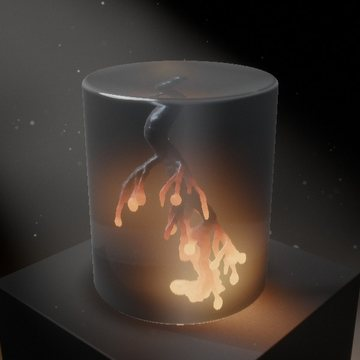
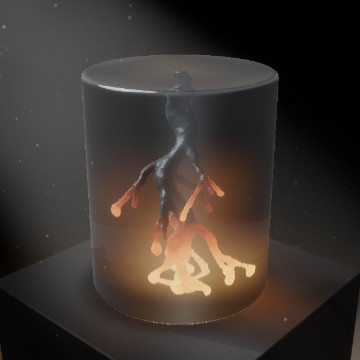
Day 27: reproducible seeds, C replays the cast, pour stays out of the url, free unshown bakes

Changed region(s): [[0.275, 0.3361, 0.8556, 0.9778], [0.2139, 0.1528, 0.7944, 0.3667], [0.3667, 0.8556, 0.3972, 0.8861]]

diff --git a/27/main.js b/27/main.js
@@ -18,6 +18,7 @@ import {
   showSoundHint,
   onPause,
 } from "common";
+import { getSeed, seededRandom } from "modules/random.js";
 import { GUI } from "guspira";
 import { Scene, Mesh, Group, Vector2, Vector3, Spherical, Color, Shape, ExtrudeGeometry, LatheGeometry, CylinderGeometry, BoxGeometry, DataUtils } from "three";
 import { PipelineMaterial } from "modules/pipeline/PipelineMaterial.js";
@@ -103,7 +104,7 @@ function toggleSound() {
 onPause((running) => sound.pause(!running));
 
 addKey("KeyE", "toggle excavate", () => params.encase.set(params.encase() > 0.5 ? 0 : 1));
-addKey("KeyP", "replay the cast", () => beginLift(false));
+addKey("KeyC", "replay the cast", () => beginLift(false));
 addKey("KeyM", "toggle sound", () => toggleSound());
 
 const gui = new GUI(setDay(), document.querySelector("#gui-container"), { expanded: false });
@@ -125,7 +126,7 @@ gui.addSlider("Refraction", params.ior, 1.1, 1.9, 0.01, { randomizable: false })
 gui.addSlider("Heat", params.heat, 0, 1.5, 0.01, { title: "Molten ember intensity at the lower burrow tips (0 = fully cooled metal)." });
 gui.addSlider("Grain", params.grain, 0, 1, 0.01, { title: "Sand-imprinted cast metal surface micro-texture (subtle cast grain always remains)." });
 gui.addSlider("Bubbles", params.bubbles, 0, 1, 0.01, { title: "Trapped gas blowholes and spherical air pockets carved into the cast metal." });
-gui.addSlider("Pour", params.pour, 0, 1, 0.01, { randomizable: false, title: "Molten metal pour fill progress from the top entrance (press P to replay)." });
+gui.addSlider("Pour", params.pour, 0, 1, 0.01, { randomizable: false, title: "Molten metal pour fill progress from the top entrance (press C to replay)." });
 gui.addSlider("Spotlight", params.spotlight, 0, 1, 0.01, { randomizable: false, title: "Volumetric overhead gallery spotlight shaft and drifting dust haze." });
 gui.addSlider("Room light", params.room, 0, 1, 0.01, { randomizable: false, title: "Light on the plinth and backdrop outside the spot (0: only the spot and the embers)." });
 gui.addSlider("Base light", params.baseLight, 0, 2, 0.01, { randomizable: false, title: "The warm strip tucked under the plinth." });
@@ -137,7 +138,7 @@ const autoChange = createAutoChange({ enabled: params.auto, every: params.autoTi
 pipeline.addGUI(gui);
 gui.addSeparator();
 gui.addText(keysHelp());
-showHint("Drag to orbit · P pour · E excavate · R new cast", "Drag to orbit · tap {randomize} for a new cast");
+showHint("Drag to orbit · C pour · E excavate · R new cast", "Drag to orbit · tap {randomize} for a new cast");
 showSoundHint(() => !sound.running);
 gui.show();
 
@@ -233,9 +234,9 @@ function triggerPour() {
   pourAnimActive = true;
   curPour = 0.0;
   curPourHeat = 1.0;
-  lastSliderPour = 0.0;
   pourClock = 0;
-  params.pour.set(0.0);
+  params.pour.set(1);
+  lastSliderPour = 1;
 }
 
 // The cycle: an empty plinth, the pour defines the burrow, the resin rises around it as it cools, then it rests. A change
@@ -254,9 +255,9 @@ function startCycle() {
   pourAnimActive = false;
   curPour = 0;
   curPourHeat = 0;
-  lastSliderPour = 0;
   pourClock = 0;
-  params.pour.set(0);
+  params.pour.set(1);
+  lastSliderPour = 1;
 }
 function beginLift(rebuild = true) {
   if (rebuild) startBake();
@@ -337,6 +338,11 @@ function setPlinthSize() {
 // The next piece bakes in a worker while the current one lifts away; its textures are uploaded as soon as it arrives.
 let bake = null;
 function startBake() {
+  // A baked piece that never went on show.
+  if (bake?.vol) {
+    bake.vol.burrowTex.dispose();
+    bake.vol.glowTex.dispose();
+  }
   currentKey = sculptureKey();
   const job = { vol: null };
   bake = job;
@@ -346,6 +352,7 @@ function startBake() {
     complexity: params.complexity(),
     T: VOL_RES,
     G: 48,
+    random: seededRandom(`${getSeed()}|${currentKey}`),
   }).then((vol) => {
     renderer.initTexture(vol.burrowTex);
     renderer.initTexture(vol.glowTex);
@@ -409,7 +416,8 @@ onRandomize(() => {
 
 applyUrlState();
 load.burrow.set(0.3);
-startBake();
+// A seed in the url has already started this piece's bake.
+if (!bake || currentKey !== sculptureKey()) startBake();
 applyVolume(await load.burrow.track(bake.promise));
 bake = null;
 if (hasUrlPour) {
@@ -578,12 +586,11 @@ render(({ time, dt }) => {
   pourClock += dt;
   if (pourAnimActive) {
     curPour = Math.min(1.0, curPour + dt * POUR_RATE);
-    lastSliderPour = curPour;
-    params.pour.set(curPour);
     curPourHeat = 1.0;
     if (curPour >= 1.0) pourAnimActive = false;
   } else {
-    curPour += (sliderPour - curPour) * ease;
+    // The plinth stays empty until the pour starts.
+    curPour += ((cycle.phase === "empty" ? 0 : sliderPour) - curPour) * ease;
     const targetPourHeat = curPour < 0.985 && curPour > 0.005 ? 1.0 : 0.0;
     const coolRate = targetPourHeat > curPourHeat ? 1 - Math.exp(-dt * 8.0) : dt * 0.34;
     curPourHeat = targetPourHeat > curPourHeat

diff --git a/27/explainer.html b/27/explainer.html
@@ -178,7 +178,7 @@ footer ul { margin: 8px 0 12px; padding-left: 18px; }
       </tbody>
     </table></div>
     <div class="col prose">
-      <p>Every archetype uses <code>Math.random</code>, which the day seeds: the same seed always grows the same burrow.</p>
+      <p>Every archetype draws from its own random stream, seeded from the page's seed plus the archetype, case and complexity, so the same seed always grows the same burrow, whatever was cast before it.</p>
     </div>
   </section>
 
@@ -457,7 +457,7 @@ out   = mix(current, hist, 0.92)</div>
     <div class="col prose">
       <div class="eyebrow">The cycle · <b>main.js</b></div>
       <h2>Empty, pour, cool, rest, lift</h2>
-      <p>Each piece is a small state machine. <b>Empty</b>: the plinth stands bare for 0.8 s while it eases to the new piece's size. <b>Pour</b>: the pour rises at 0.24 a second, and a molten stream, an open cylinder 0.022 to 0.03 wide and emissive at (26, 10, 2.4), falls into the crown of the cast, wobbling and thinning to nothing between pour 0.85 and 0.97. <b>Cool</b>: after 0.8 s the resin rises over 5.5 s on a smoothstep, its level chased at <code>1 − e<sup>−2 dt</sup></code>. <b>Rest</b>: the finished piece waits, and auto change counts its 14 s only now. <b>Lift</b>: the piece rises 9 units in 1.8 s on a cubic and is held out of view until the next bake has arrived; then the new volume goes in and the cycle starts over. P replays the current cast through the same lift; scrubbing the Pour slider jumps straight to rest with the resin up.</p>
+      <p>Each piece is a small state machine. <b>Empty</b>: the plinth stands bare for 0.8 s while it eases to the new piece's size. <b>Pour</b>: the pour rises at 0.24 a second, and a molten stream, an open cylinder 0.022 to 0.03 wide and emissive at (26, 10, 2.4), falls into the crown of the cast, wobbling and thinning to nothing between pour 0.85 and 0.97. <b>Cool</b>: after 0.8 s the resin rises over 5.5 s on a smoothstep, its level chased at <code>1 − e<sup>−2 dt</sup></code>. <b>Rest</b>: the finished piece waits, and auto change counts its 14 s only now. <b>Lift</b>: the piece rises 9 units in 1.8 s on a cubic and is held out of view until the next bake has arrived; then the new volume goes in and the cycle starts over. C replays the current cast through the same lift; scrubbing the Pour slider jumps straight to rest with the resin up.</p>
       <p>Left alone for 6 s, the camera starts to orbit, fading in over 3 s. During the pour and the lift it circles wide, 5.2 ± 2.0 units out, rising and dipping; once the metal starts cooling it draws in over 2.5 s to <code>3.2 + the block's half-height</code> (± 0.25), lower and a little faster round (0.20 instead of 0.12 rad/s), to show the cast through each face. Its target drifts back to the plinth's axis, pans are kept within 1.5 of it, and the distance within 2 to 8.5, inside the cyclorama.</p>
     </div>
     <div class="fig">
@@ -519,7 +519,7 @@ out   = mix(current, hist, 0.92)</div>
     </div>
     <ul class="keys col">
       <li>Drag to orbit, scroll or pinch to zoom. Left alone 6 s, the camera circles the piece by itself (<b>Idle orbit</b>).</li>
-      <li><b>R</b> (or the dice) casts a new piece: the old one lifts away first. <b>P</b> replays this piece's cast.</li>
+      <li><b>R</b> (or the dice) casts a new piece: the old one lifts away first. <b>C</b> replays this piece's cast.</li>
       <li><b>E</b> toggles excavate: the resin sinks away, or rises back.</li>
       <li><b>Archetype</b>, <b>Encasing</b>, <b>Finish</b>, <b>Complexity</b> (0.2–1): what is cast. Changing the first two or the complexity starts a new piece.</li>
       <li><b>Level</b>, <b>Chamfer</b>, <b>Frost</b>, <b>Streaks</b>, <b>Streak length</b>, <b>Refraction</b> (1.1–1.9): the resin.</li>

diff --git a/27/textures.js b/27/textures.js
@@ -49,8 +49,17 @@ function getWorker() {
 }
 
 // Draws the seeded primitives now (so seeds replay the same piece), rasterizes in the worker. Resolves to the volume.
-export function bakeBurrowVolumes({ archetype, shape, complexity, T, G }) {
-  const job = { ...buildBurrowPrimitives({ archetype, shape, complexity }), T, G };
+export function bakeBurrowVolumes({ archetype, shape, complexity, T, G, random = Math.random }) {
+  // The primitives draw from their own stream, so a piece doesn't depend on what drew from Math.random before it.
+  const pageRandom = Math.random;
+  Math.random = random;
+  let prims;
+  try {
+    prims = buildBurrowPrimitives({ archetype, shape, complexity });
+  } finally {
+    Math.random = pageRandom;
+  }
+  const job = { ...prims, T, G };
   const w = getWorker();
   if (!w) return Promise.resolve(toVolume(shape, rasterizeBurrow(job)));
   const id = nextId++;

diff --git a/27/README.md b/27/README.md
@@ -12,7 +12,7 @@ Six procedural burrow morphologies (`dendritic`, `antcast`, `brood`, `shaft`, `f
 
 - **Drag** to orbit, **scroll** to zoom
 - **R** — cast a new burrow (the old piece lifts away first)
-- **P** — replay the cast of this piece
+- **C** — replay the cast of this piece
 - **E** — toggle excavate (hide/show the frosted glass encasing)
 - **M** — toggle sound
 - **Space** — pause / resume
